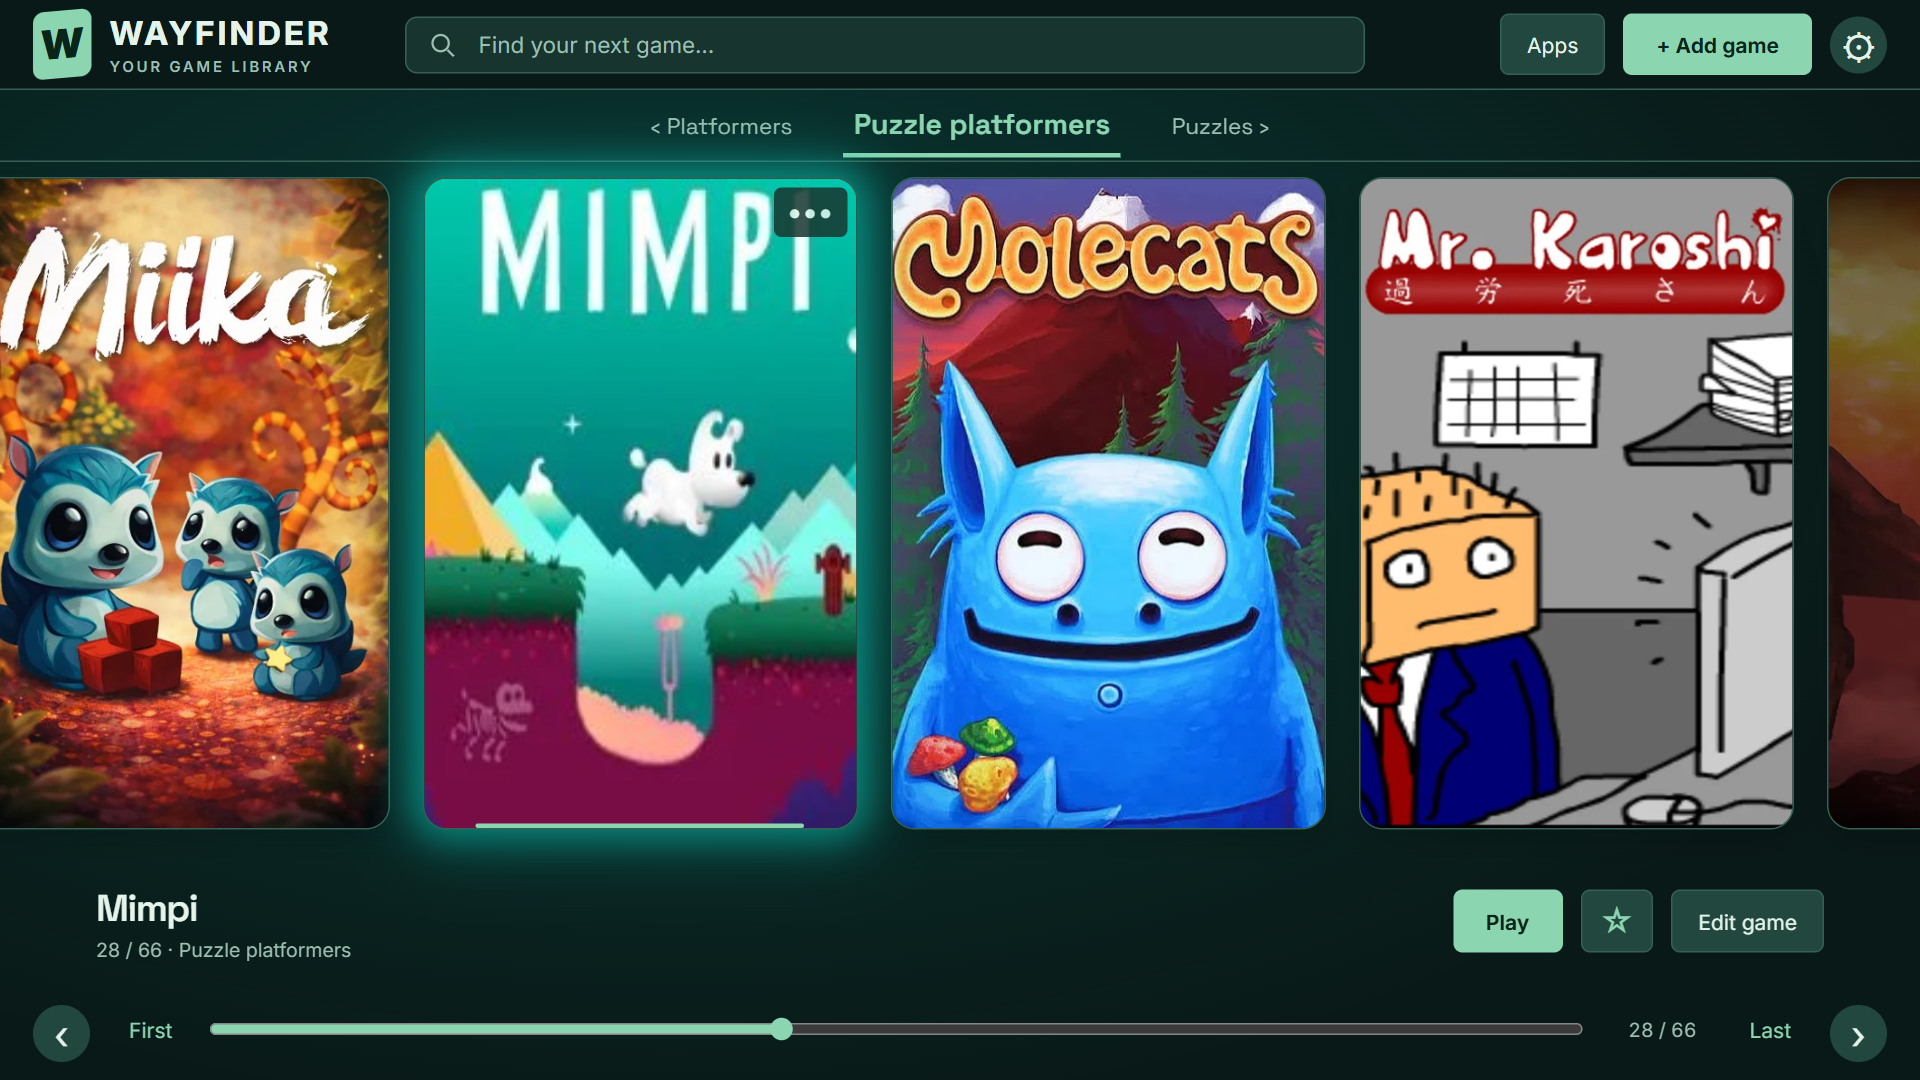
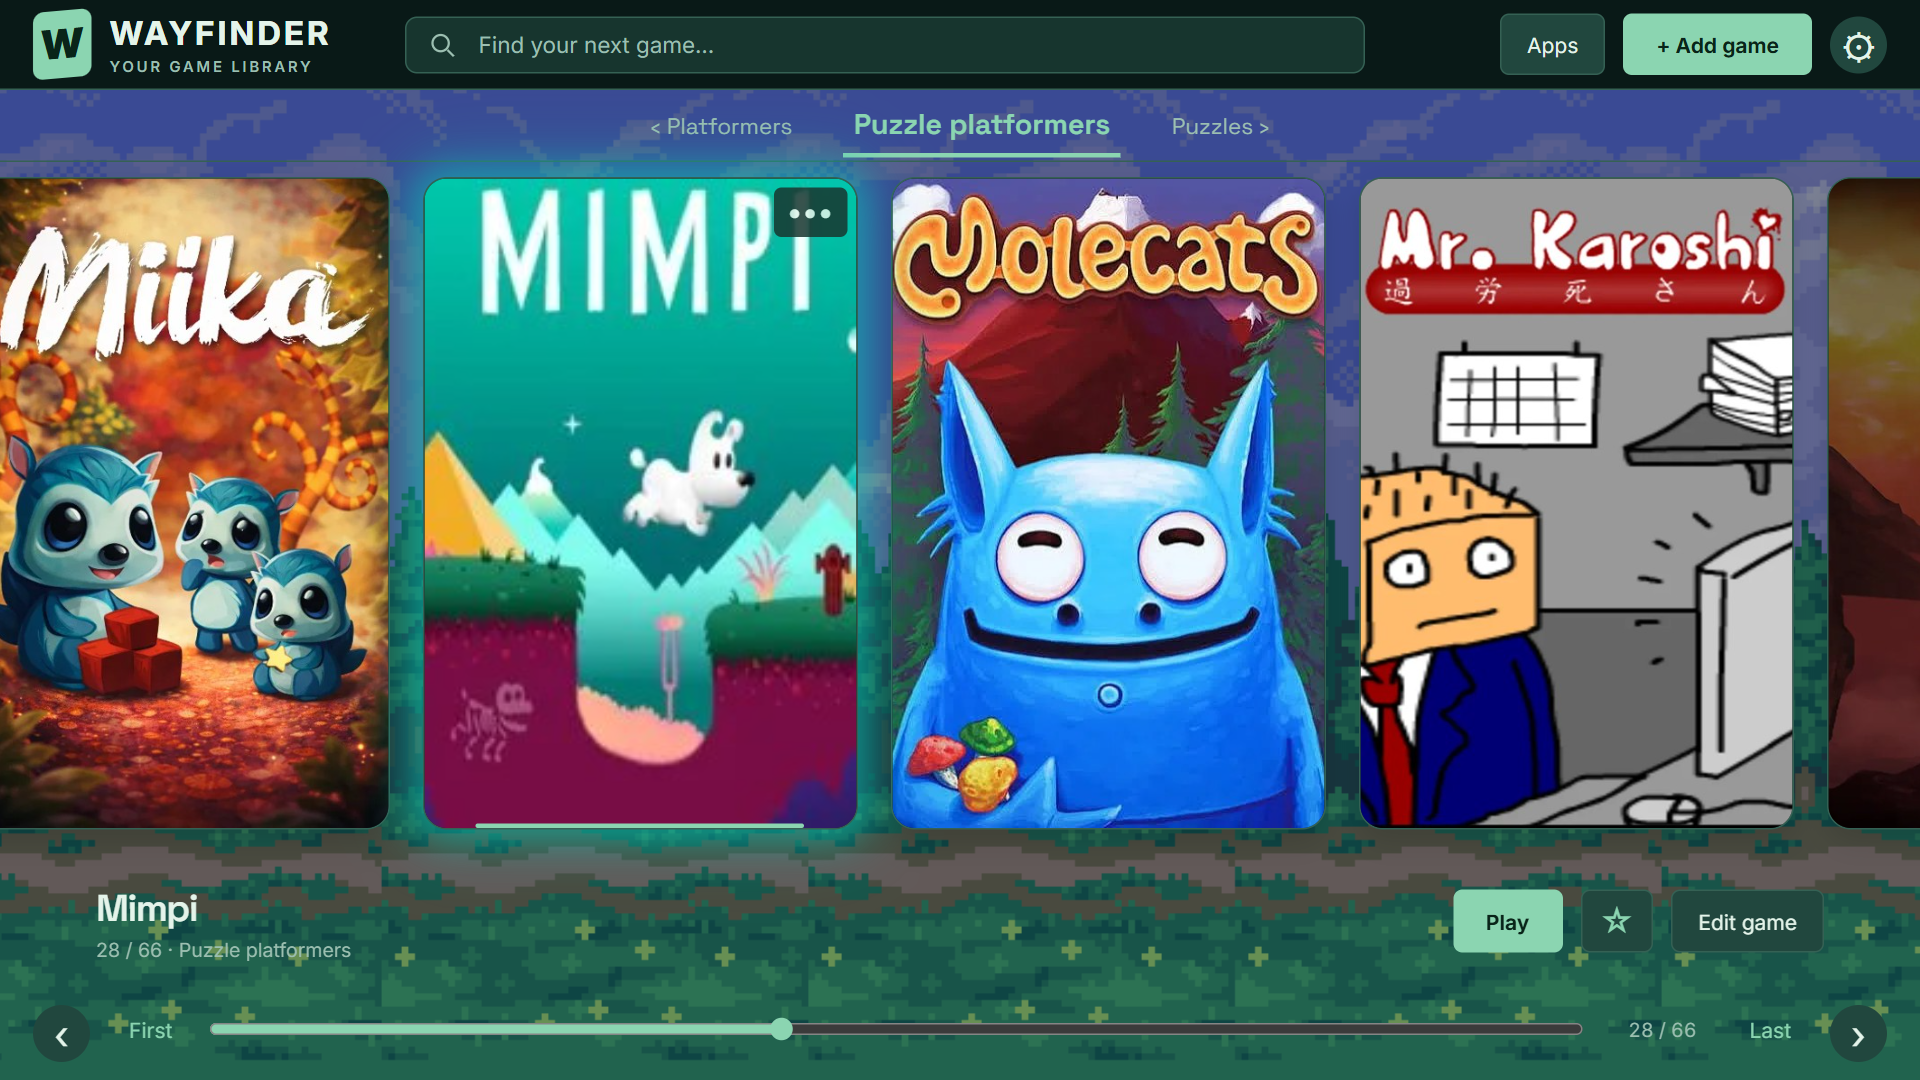
Refresh appearance gallery with seven Beta 4 looks

diff --git a/README.md b/README.md
@@ -72,35 +72,49 @@ Adding a library entry does not install the game. Games must already be installe
 
 ## Appearance gallery
 
-The same library, shown in seven different presentation themes, color schemes, and typography choices. These captures use the current app interface in a browser with an example collection; games and personal cover artwork are not bundled.
+Seven looks from the same library, combining presentation themes, typography, palettes, and backgrounds. These are captures of the current app interface in a browser with an example collection; games and personal cover artwork are not bundled. Animated backgrounds are shown as still frames.
 
-### Cupertino · Graphite · Outfit
+### Cupertino · Violet · Outfit
 
-![Night in the Woods in Coverflow, with classic reflections, a cover halo, and a gradient backdrop.](docs/screenshots/wayfinder-cupertino-graphite.png)
+Urban skyline, matched to Violet, with classic reflections and a soft cover halo. Night in the Woods is selected.
 
-### Berlin · Midnight Blue · Clean
+![Urban skyline, matched to Violet, with classic reflections and a soft cover halo. Night in the Woods is selected.](docs/screenshots/wayfinder-cupertino-violet.png)
 
-![A Playrite-inspired cover grid with Katana ZERO selected.](docs/screenshots/wayfinder-berlin-midnight.png)
+### Berlin · Cyan · Space Grotesk
+
+A dense cover grid over a muted Another World backdrop, with Katana ZERO selected.
+
+![A dense cover grid over a muted Another World backdrop, with Katana ZERO selected.](docs/screenshots/wayfinder-berlin-cyan.png)
 
 ### Oxford · Parchment · Editorial
 
-![Tengami selected in the quiet Niagaramond title-list layout.](docs/screenshots/wayfinder-oxford-parchment.png)
+A quiet title list with Tengami selected, backed by Mountain dusk matched to the Parchment palette.
 
-### Tokyo · Hot Pink · Oxanium
+![A quiet title list with Tengami selected, backed by Mountain dusk matched to the Parchment palette.](docs/screenshots/wayfinder-oxford-parchment.png)
 
-![Danmaku Unlimited 3 beside a vertical game list, with a neon palette and cover halo.](docs/screenshots/wayfinder-tokyo-pink.png)
+### Tokyo · Hacker Green · Oxanium
 
-### Vienna · Terracotta · Editorial
+Danmaku Unlimited 3 beside a title list, with Alien Environment matched to Hacker Green.
 
-![Braid on the expanded Puzzle platformers shelf, with compact previews and space between categories.](docs/screenshots/wayfinder-vienna-terracotta.png)
+![Danmaku Unlimited 3 beside a title list, with Alien Environment matched to Hacker Green.](docs/screenshots/wayfinder-tokyo-hacker.png)
+
+### Vienna · Amber · Space Grotesk
+
+Braid on the expanded category shelf, with compact neighboring shelves and a muted Mountain dusk backdrop.
+
+![Braid on the expanded category shelf, with compact neighboring shelves and a muted Mountain dusk backdrop.](docs/screenshots/wayfinder-vienna-amber.png)
 
 ### Kyoto · Sea Glass · Space Grotesk
 
-![Mimpi selected among large rounded covers, with its title below.](docs/screenshots/wayfinder-kyoto-seaglass.png)
+Large rounded covers over Magical road in its original colors, with Mimpi selected and its title below.
 
-### Alexandria · Amber · IBM Plex Sans
+![Large rounded covers over Magical road in its original colors, with Mimpi selected and its title below.](docs/screenshots/wayfinder-kyoto-seaglass.png)
 
-![Ara Fell selected in an amber cover grid with sidebar categories.](docs/screenshots/wayfinder-alexandria-amber.png)
+### Alexandria · Hot Pink · IBM Plex Sans
+
+Ara Fell selected in a cover grid with sidebar categories, a soft gradient, and a cover halo.
+
+![Ara Fell selected in a cover grid with sidebar categories, a soft gradient, and a cover halo.](docs/screenshots/wayfinder-alexandria-pink.png)
 
 ## Local library, personal artwork
 
